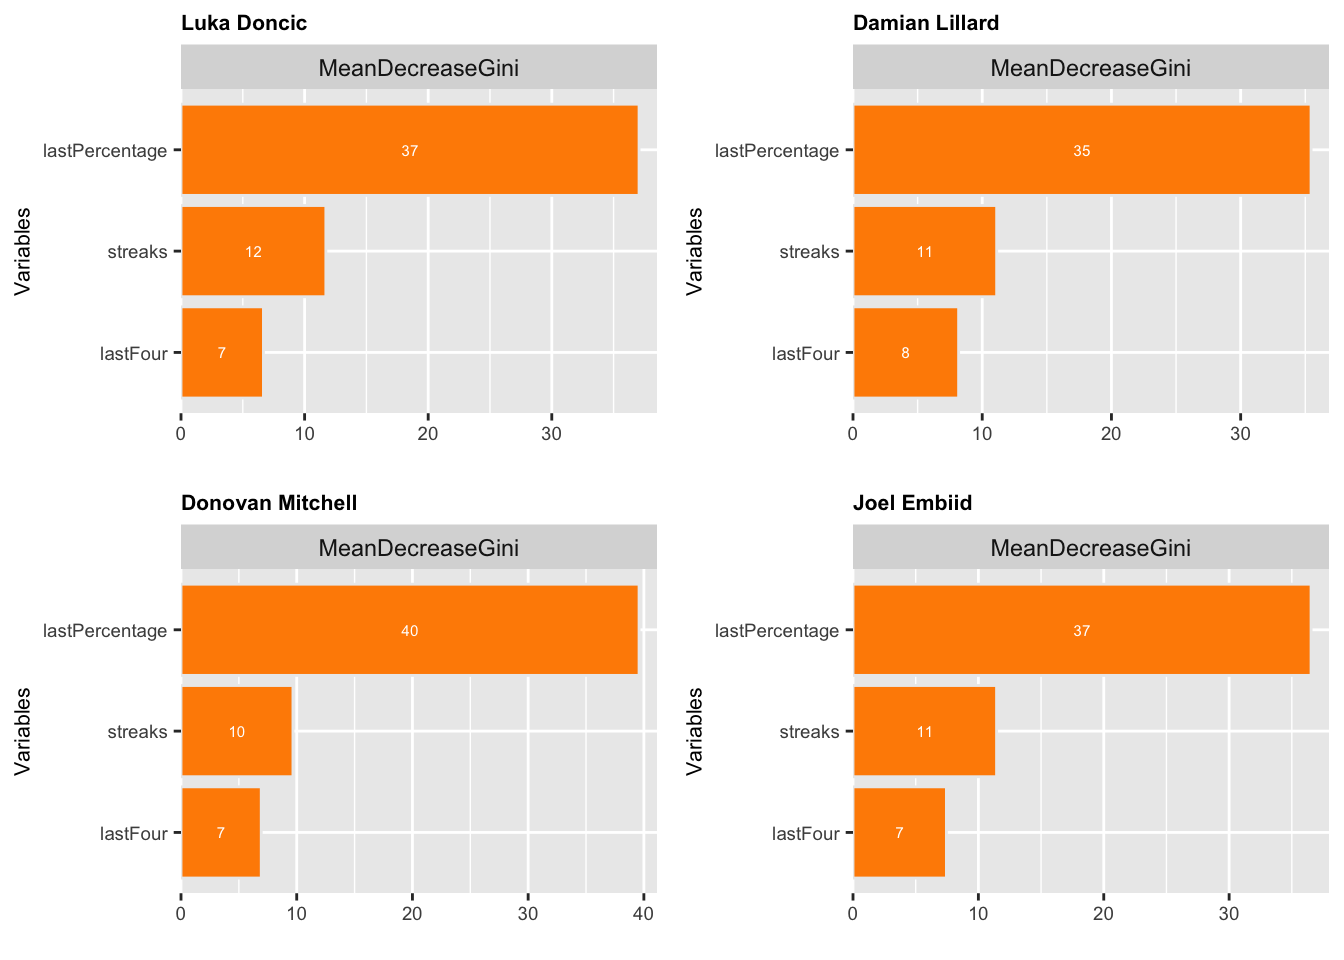
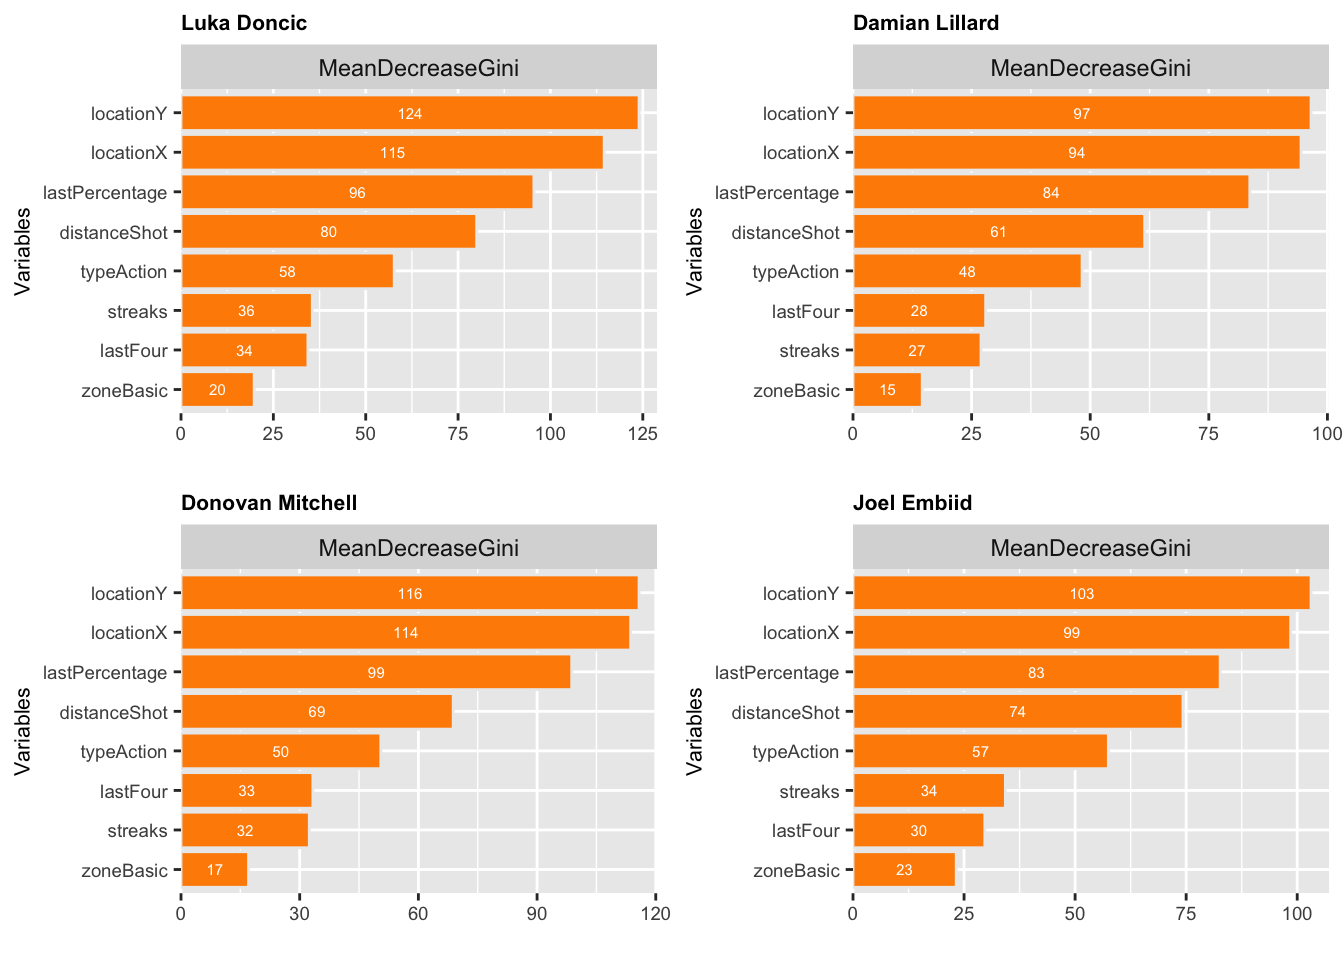
06:28

diff --git a/docs/posts/HotHand/HotHand.html b/docs/posts/HotHand/HotHand.html
@@ -333,58 +333,58 @@ code span.wa { color: #60a0b0; font-weight: bold; font-style: italic; } /* Warni
 <div class="cell-output cell-output-stdout">
 <pre><code>
 Call:
- randomForest(formula = form_def, data = lillard_shots3, ntree = 1000) 
+ randomForest(formula = form_full, data = lillard_shots3, ntree = 1000) 
                Type of random forest: classification
                      Number of trees: 1000
-No. of variables tried at each split: 1
+No. of variables tried at each split: 2
 
-        OOB estimate of  error rate: 45.15%
+        OOB estimate of  error rate: 42.27%
 Confusion matrix:
     0   1 class.error
-0 399 112   0.2191781
-1 326 133   0.7102397</code></pre>
+0 341 170   0.3326810
+1 240 219   0.5228758</code></pre>
 </div>
 <div class="cell-output cell-output-stdout">
 <pre><code>
 Call:
- randomForest(formula = form_def, data = doncic_shots3, ntree = 1000) 
+ randomForest(formula = form_full, data = doncic_shots3, ntree = 1000) 
                Type of random forest: classification
                      Number of trees: 1000
-No. of variables tried at each split: 1
+No. of variables tried at each split: 2
 
-        OOB estimate of  error rate: 48.36%
+        OOB estimate of  error rate: 40.19%
 Confusion matrix:
     0   1 class.error
-0 249 350   0.5843072
-1 224 364   0.3809524</code></pre>
+0 363 236   0.3939900
+1 241 347   0.4098639</code></pre>
 </div>
 <div class="cell-output cell-output-stdout">
 <pre><code>
 Call:
- randomForest(formula = form_def, data = mitchell_shots3, ntree = 1000) 
+ randomForest(formula = form_full, data = mitchell_shots3, ntree = 1000) 
                Type of random forest: classification
                      Number of trees: 1000
-No. of variables tried at each split: 1
+No. of variables tried at each split: 2
 
-        OOB estimate of  error rate: 54.34%
+        OOB estimate of  error rate: 42.04%
 Confusion matrix:
     0   1 class.error
-0 407 180   0.3066440
-1 434 109   0.7992634</code></pre>
+0 378 209   0.3560477
+1 266 277   0.4898711</code></pre>
 </div>
 <div class="cell-output cell-output-stdout">
 <pre><code>
 Call:
- randomForest(formula = form_def, data = embiid_shots3, ntree = 1000) 
+ randomForest(formula = form_full, data = embiid_shots3, ntree = 1000) 
                Type of random forest: classification
                      Number of trees: 1000
-No. of variables tried at each split: 1
+No. of variables tried at each split: 2
 
-        OOB estimate of  error rate: 47.37%
+        OOB estimate of  error rate: 40.79%
 Confusion matrix:
-   0   1 class.error
-0 64 421   0.8680412
-1 83 496   0.1433506</code></pre>
+    0   1 class.error
+0 268 217   0.4474227
+1 217 362   0.3747841</code></pre>
 </div>
 </div>
 <div class="cell">
@@ -483,13 +483,13 @@ glm(formula = as.factor(isShotMadeBinary) ~ locationX + locationY +
 
 Coefficients:
                  Estimate Std. Error z value Pr(&gt;|z|)    
-(Intercept)     0.5934009  0.2182891   2.718  0.00656 ** 
-locationX      -0.0005487  0.0006001  -0.914  0.36059    
-locationY       0.0016517  0.0016048   1.029  0.30336    
-streaks         0.0110233  0.0638392   0.173  0.86291    
-lastFour        0.1658182  0.3861545   0.429  0.66763    
-lastPercentage  0.0022137  0.4770658   0.005  0.99630    
-distanceShot   -0.0630206  0.0148235  -4.251 2.12e-05 ***
+(Intercept)     0.5899315  0.2182981   2.702  0.00688 ** 
+locationX      -0.0005478  0.0006001  -0.913  0.36135    
+locationY       0.0016476  0.0016048   1.027  0.30458    
+streaks         0.0072046  0.0639772   0.113  0.91034    
+lastFour        0.1783000  0.3865924   0.461  0.64465    
+lastPercentage  0.0030115  0.4770143   0.006  0.99496    
+distanceShot   -0.0629547  0.0148238  -4.247 2.17e-05 ***
 ---
 Signif. codes:  0 '***' 0.001 '**' 0.01 '*' 0.05 '.' 0.1 ' ' 1
 
@@ -511,21 +511,21 @@ glm(formula = as.factor(isShotMadeBinary) ~ locationX + locationY +
 
 Coefficients:
                  Estimate Std. Error z value Pr(&gt;|z|)    
-(Intercept)     1.1157763  0.2732759   4.083 4.45e-05 ***
-locationX       0.0003563  0.0009663   0.369   0.7124    
-locationY       0.0042129  0.0022924   1.838   0.0661 .  
-streaks         0.0610837  0.0540952   1.129   0.2588    
-lastFour       -0.3472157  0.4274162  -0.812   0.4166    
-lastPercentage -0.0929673  0.5643240  -0.165   0.8691    
-distanceShot   -0.1050841  0.0222141  -4.731 2.24e-06 ***
+(Intercept)     1.1190221  0.2733978   4.093 4.26e-05 ***
+locationX       0.0003528  0.0009664   0.365    0.715    
+locationY       0.0042142  0.0022926   1.838    0.066 .  
+streaks         0.0632705  0.0541368   1.169    0.243    
+lastFour       -0.3660486  0.4275186  -0.856    0.392    
+lastPercentage -0.0841544  0.5642315  -0.149    0.881    
+distanceShot   -0.1051383  0.0222175  -4.732 2.22e-06 ***
 ---
 Signif. codes:  0 '***' 0.001 '**' 0.01 '*' 0.05 '.' 0.1 ' ' 1
 
 (Dispersion parameter for binomial family taken to be 1)
 
     Null deviance: 1466.7  on 1063  degrees of freedom
-Residual deviance: 1370.9  on 1057  degrees of freedom
-AIC: 1384.9
+Residual deviance: 1370.8  on 1057  degrees of freedom
+AIC: 1384.8
 
 Number of Fisher Scoring iterations: 4</code></pre>
 </div>

diff --git a/docs/projects.html b/docs/projects.html
@@ -185,7 +185,7 @@ ul.task-list li input[type="checkbox"] {
 
 <div class="quarto-listing quarto-listing-container-default" id="listing-listing">
 <div class="list quarto-listing-default">
-<div class="quarto-post image-right" data-index="0" data-categories="Basketball" data-listing-date-sort="1672635600000" data-listing-file-modified-sort="1709115919717" data-listing-reading-time-sort="21.505">
+<div class="quarto-post image-right" data-index="0" data-categories="Basketball" data-listing-date-sort="1672635600000" data-listing-file-modified-sort="1709119627791" data-listing-reading-time-sort="21.505">
 <div class="thumbnail">
 <p><a href="./posts/HotHand/HotHand.html"> <img src="./posts/HotHand/hinson.webp" class="thumnail-image"> </a></p>
 </div>

diff --git a/docs/Photography.html b/docs/Photography.html
@@ -345,7 +345,7 @@ window.document.addEventListener("DOMContentLoaded", function (event) {
       </div>
   </div>
 </footer>
-<script>var lightboxQuarto = GLightbox({"closeEffect":"zoom","openEffect":"zoom","selector":".lightbox","descPosition":"bottom","loop":true});</script>
+<script>var lightboxQuarto = GLightbox({"openEffect":"zoom","closeEffect":"zoom","selector":".lightbox","loop":true,"descPosition":"bottom"});</script>
 
 
 
